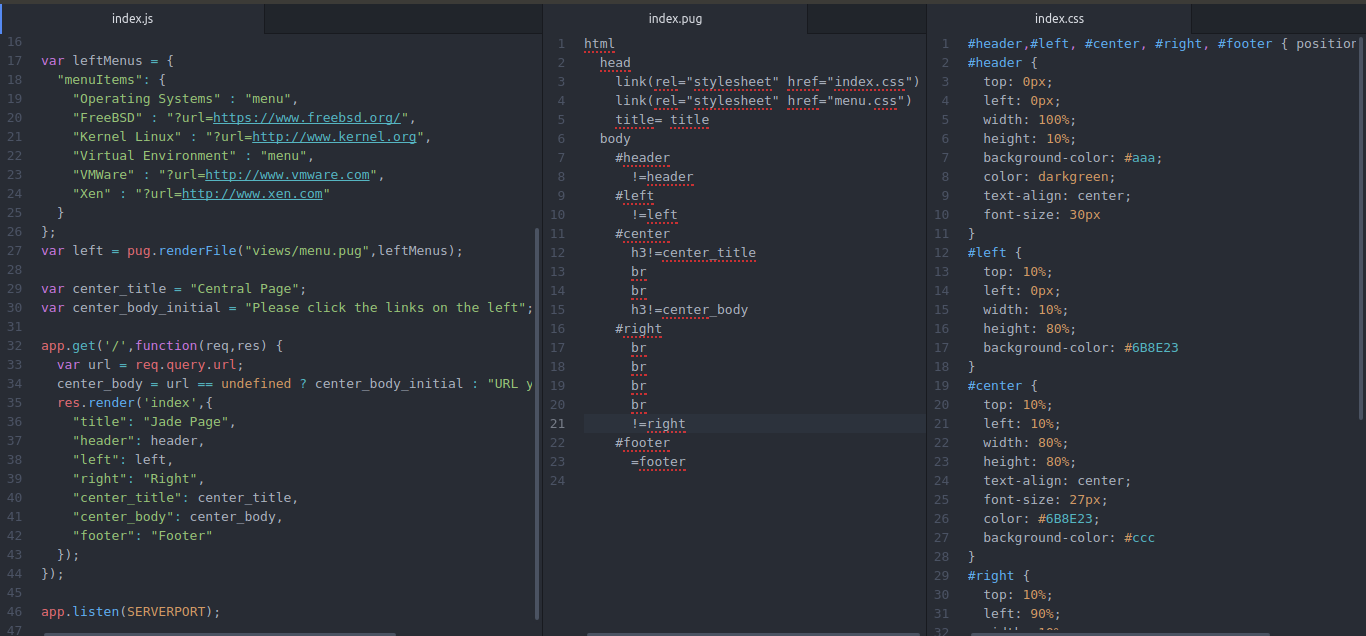
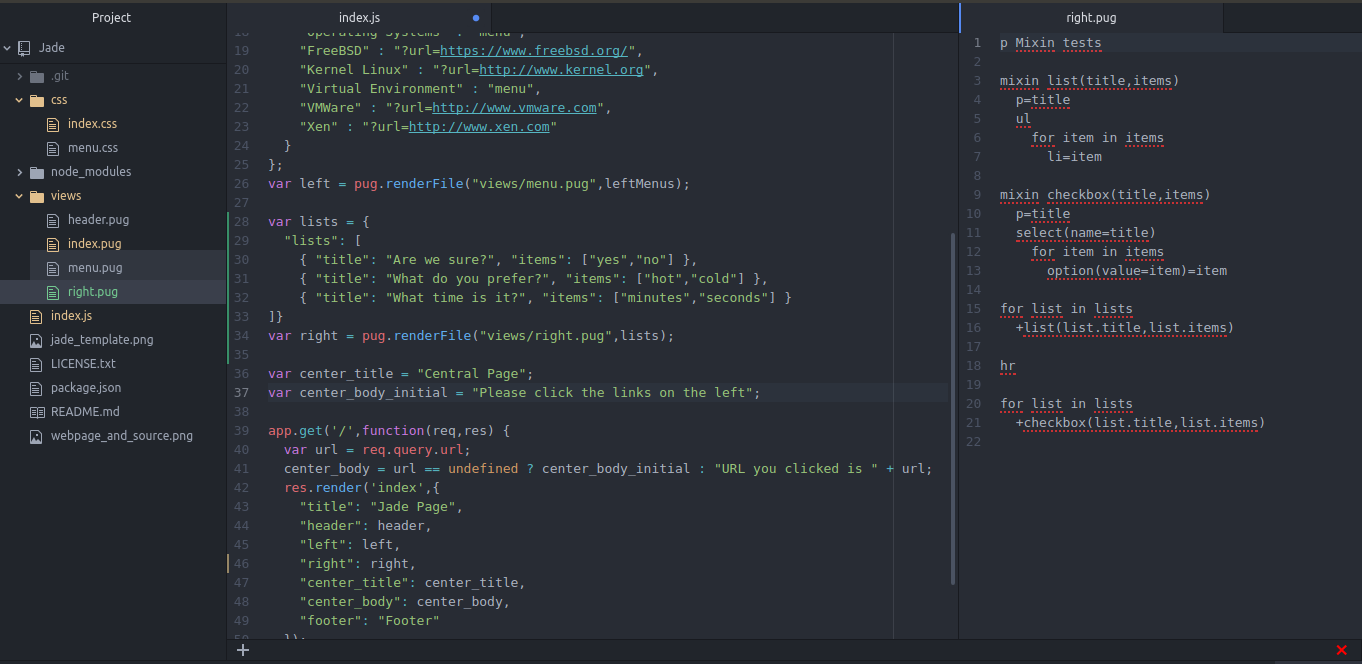
Added Mixin

diff --git a/index.js b/index.js
@@ -25,6 +25,14 @@ var leftMenus = {
 };
 var left = pug.renderFile("views/menu.pug",leftMenus);
 
+var lists = {
+	"lists": [
+		{	"title": "Are we sure?", "items": ["yes","no"] },
+		{	"title": "What do you prefer?", "items": ["hot","cold"] },
+		{	"title": "What time is it?", "items": ["minutes","seconds"] }
+]}
+var right = pug.renderFile("views/right.pug",lists);
+
 var center_title = "Central Page";
 var center_body_initial = "Please click the links on the left";
 
@@ -35,7 +43,7 @@ app.get('/',function(req,res) {
 		"title": "Jade Page",
 		"header": header,
 		"left": left,
-		"right": "Right",
+		"right": right,
 		"center_title": center_title,
 		"center_body": center_body,
 		"footer": "Footer"

diff --git a/css/index.css b/css/index.css
@@ -32,7 +32,7 @@
   width: 10%;
   height: 80%;
   color: white;
-  text-align: center;
+  text-align: left;
   background-color: #6B8E23
 }
 #footer {
